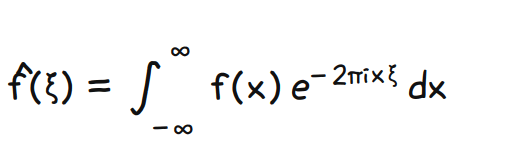
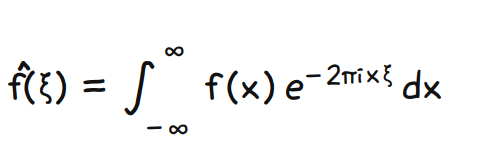
Render combining accents via GPOS mark anchors
replaceCombiningAccents rewrites single-letter \hat / \bar / \tilde
/ \dot / \ddot / \check / \breve / \acute / \grave mover boxes
as a mjx-c-accent text node containing baseChar + combiningChar, so
HarfBuzz shapes the pair through xkcd-script's mark anchors instead
of falling back to MathJax's CSS-positioned overlay.

The injected base character comes from the math-italic codepoint
directly — pt6 cmap-aliases math-italic / bold / Greek codepoints
to their plain Latin / Greek glyphs, so the browser shapes the
text node through the alias automatically (no JS-side codepoint
remapping needed).

replaceWideMovers handles \vec (font's U+2192 overlay), \overline
(emdash extender), \widehat / \widetilde (CSS-centred non-stretchy
caret/wave).

diff --git a/xkcd-script/xkcd-mathjax3.js b/xkcd-script/xkcd-mathjax3.js
@@ -1486,11 +1486,6 @@
             mjx-container[jax="CHTML"][display="true"] mjx-munderover:has(.mjx-c2211) mjx-over {
                 margin-left: -0.15em !important;
             }
-            /* xkcd capitals are narrower than MJXTEX-I metrics so \\hat (U+02C6)
-               sits too far right; nudge it back. */
-            mjx-container[jax="CHTML"] mjx-mover mjx-over:has(.mjx-c2C6) {
-                margin-left: -0.10em !important;
-            }
             /* Drop the italic-correction padding on f-as-superscript-base so
                the prime lines up against our upright f. */
             mjx-container[jax="CHTML"] mjx-msup mjx-base mjx-mi:has(.mjx-c1D453) {
@@ -1503,9 +1498,82 @@
         document.head.appendChild(s);
     }
 
+    // ── Combining-accent shaping ────────────────────────────────────────────
+    // MathJax CHTML lays out \hat / \bar / \tilde / \dot / etc. as
+    // <mjx-mover> with pre-baked accent-x positioning that assumes MJXTEX-I
+    // letter widths.  xkcd-script's letters are different widths and the
+    // font carries its own GPOS mark anchors, so MathJax's baked position
+    // lands off-centre (typically too far right on capitals).
+    //
+    // For the common case — single-letter base + a spacing accent whose
+    // combining counterpart is in the font — replace the mover with a plain
+    // text run "<base char><combining char>".  HarfBuzz then shapes it
+    // through the font's mark feature, putting the accent exactly where the
+    // designer placed the anchor.  Wide-base accents (\widehat{xyz},
+    // \overline{a+b}) and accents we have no combining glyph for (\vec uses
+    // U+20D7 which isn't in xkcd-script) skip this path and fall through to
+    // MathJax's default rendering plus any existing CSS nudges.
+    // MathJax 3 TeX maps these accents to the codepoints on the left, not to
+    // the spacing-modifier-letter range you'd expect — \hat is ASCII ^,
+    // \tilde is ASCII ~, \grave is U+2035 (reversed prime).  Verified by DOM
+    // inspection of mjx-over contents.
+    const _ACCENT_SPACING_TO_COMBINING = {
+        '5E':   '̂',  // \hat       — ASCII ^ → combining circumflex
+        '7E':   '̃',  // \tilde     — ASCII ~ → combining tilde
+        'AF':   '̄',  // \bar       — macron
+        '2D9':  '̇',  // \dot
+        'A8':   '̈',  // \ddot      — diaeresis
+        '2C7':  '̌',  // \check     — caron
+        '2D8':  '̆',  // \breve
+        'B4':   '́',  // \acute
+        '2035': '̀',  // \grave     — reversed prime → combining grave
+    };
+
+    // Math italic / bold / Greek codepoints (U+1D400 block, U+210E, etc.)
+    // are aliased to their plain Latin / Greek glyph in the font's cmap
+    // via pt6's _math_aliases.  So injecting the codepoint directly into
+    // a text node is enough — the browser shapes it through the font's
+    // cmap alias and gets the correct glyph.  Returns null for inputs
+    // that don't parse so the caller can skip cases the font won't
+    // cover (e.g. fancy decorative codepoints we never aliased).
+    function _mathItalicCpToChar(hex) {
+        const cp = parseInt(hex, 16);
+        return Number.isFinite(cp) ? String.fromCodePoint(cp) : null;
+    }
+
+    function _glyphClassCp(el) {
+        const m = (el.className || '').match(/\bmjx-c([0-9A-F]+)\b/i);
+        return m ? m[1].toUpperCase() : null;
+    }
+
+    function replaceCombiningAccents(scope) {
+        const root = scope || document;
+        const movers = root.querySelectorAll('mjx-container[jax="CHTML"] mjx-mover');
+        for (const mover of movers) {
+            if (mover.dataset.xkcdAccent) continue;
+            const over = mover.querySelector(':scope > mjx-over');
+            const base = mover.querySelector(':scope > mjx-base');
+            if (!over || !base) continue;
+            const accentGlyphs = over.querySelectorAll('[class*="mjx-c"]');
+            const baseGlyphs   = base.querySelectorAll('[class*="mjx-c"]');
+            // Single accent over single letter only — leave \widehat{xyz},
+            // \overline{a+b}, \vec (U+20D7) etc. to the default path.
+            if (accentGlyphs.length !== 1 || baseGlyphs.length !== 1) continue;
+            const combining = _ACCENT_SPACING_TO_COMBINING[_glyphClassCp(accentGlyphs[0])];
+            if (!combining) continue;
+            const baseChar = _mathItalicCpToChar(_glyphClassCp(baseGlyphs[0]) || '');
+            if (!baseChar) continue;
+            const span = document.createElement('mjx-c-accent');
+            span.dataset.xkcdAccent = '1';
+            span.textContent = baseChar + combining;
+            mover.replaceWith(span);
+        }
+    }
+
     // ── Public refresh: idempotent overlay pass ─────────────────────────────
     function refresh(root) {
         injectFontOverride();
+        replaceCombiningAccents(root);
         replaceSqrtSymbols(root);
         replaceVinculums(root);
         replaceStretchyBraces(root);